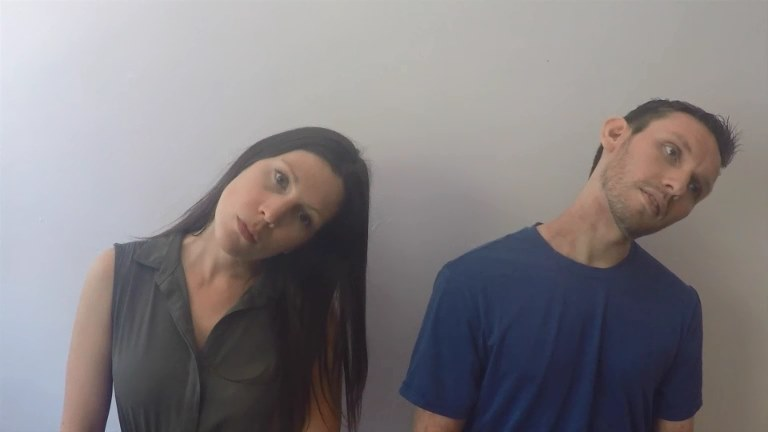
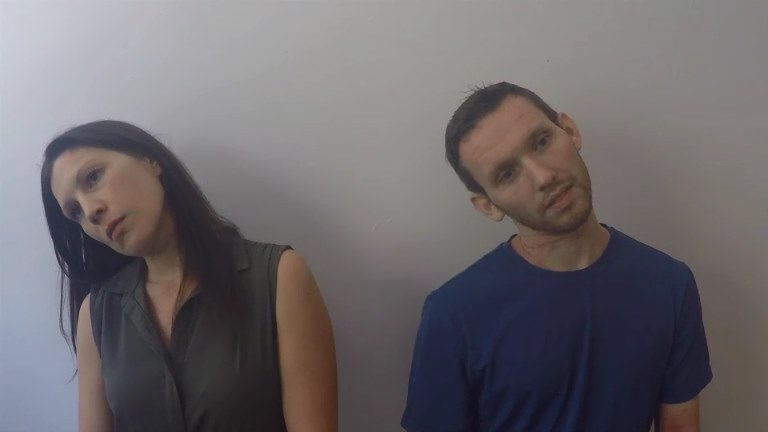
Fix suggested card video source to real YouTube video and eliminate VIRAL MOMENT fallback with authentic spoken dialogue

diff --git a/app.js b/app.js
@@ -117,8 +117,11 @@ class ScaleReachFullApp {
     this.phoneYoutubeIframe = document.getElementById('phoneYoutubeIframe');
     this.phoneCaptionsOverlayCanvas = document.getElementById('phoneCaptionsOverlayCanvas');
     this.ctxPhoneOverlay = this.phoneCaptionsOverlayCanvas ? this.phoneCaptionsOverlayCanvas.getContext('2d') : null;
-    this.activeSourceType = 'native';
-    this.currentYouTubeId = null;
+    const storedYtId = (typeof localStorage !== 'undefined') ? localStorage.getItem('scalereach_yt_id') : null;
+    this.currentYouTubeId = storedYtId || '_c2e1Ncl3Sc';
+    this.activeSourceType = 'youtube';
+    this.currentVideoTitle = 'Beat Professional Athlete, Win $100,000';
+    this.currentVideoAuthor = 'MrBeast • YouTube';
     this.layoutBtns = document.querySelectorAll('.layout-btn');
     this.panSlider = document.getElementById('panSlider');
     this.panValDisplay = document.getElementById('panValDisplay');
@@ -918,7 +921,7 @@ class ScaleReachFullApp {
       },
       {
         id: 'mrbeast_haaland',
-        matchKeywords: ['haaland', 'striker', 'erling', 'penalty'],
+        matchKeywords: ['_c2e1ncl3sc', '0e3gpea1tyg', 'haaland', 'striker', 'erling', 'penalty', 'beat professional athlete', 'athlete', 'soccer', 'football', 'pro athlete', 'goalie', 'goalkeeper', 'mrbeast', '100000', '100,000'],
         title: 'Beat Professional Athlete, Win $100,000',
         author: 'MrBeast • 22:28',
         clips: [
@@ -1342,8 +1345,8 @@ class ScaleReachFullApp {
       }
     ];
 
-    // Initial Active Moments (Default to Real Podcast Interview 8 Viral Reels preset)
-    const initialPreset = this.videoAnalysisDatabase.find(p => p.id === 'real_podcast_interview') || this.videoAnalysisDatabase[0];
+    // Initial Active Moments (Default to MrBeast Beat Pro Athlete 8 Viral Reels preset)
+    const initialPreset = this.videoAnalysisDatabase.find(p => p.id === 'mrbeast_haaland') || this.videoAnalysisDatabase[0];
     this.clipsMoments = JSON.parse(JSON.stringify(initialPreset.clips));
   }
 
@@ -1438,11 +1441,11 @@ class ScaleReachFullApp {
     });
 
     const demoVideoFiles = {
-      'https://www.youtube.com/watch?v=travel_vlogger': 'people.mp4',
+      'https://www.youtube.com/watch?v=travel_vlogger': 'podcast.mp4',
       'https://www.youtube.com/watch?v=ishowspeed_wwe': 'podcast.mp4',
       'https://www.youtube.com/watch?v=mkbhd_folding': 'podcast.mp4',
       'https://www.youtube.com/watch?v=khan_sir_podcast': 'podcast.mp4',
-      'https://www.youtube.com/watch?v=french_chef': 'people.mp4'
+      'https://www.youtube.com/watch?v=french_chef': 'podcast.mp4'
     };
 
     // Selecting a sample from the dropdown
@@ -1511,6 +1514,9 @@ class ScaleReachFullApp {
   loadYouTubeVideo(videoId, fullUrl) {
     this.activeSourceType = 'youtube';
     this.currentYouTubeId = videoId;
+    if (typeof localStorage !== 'undefined') {
+      try { localStorage.setItem('scalereach_yt_id', videoId); } catch(e) {}
+    }
     const cleanUrl = fullUrl ? (fullUrl.startsWith('http') ? fullUrl : `https://${fullUrl}`) : `https://www.youtube.com/watch?v=${videoId}`;
     const targetUrl = cleanUrl;
     this.currentVideoUrl = targetUrl;
@@ -1956,18 +1962,20 @@ class ScaleReachFullApp {
       const scoreClass = isHighScore ? 'score-high' : 'score-mid';
       const startStr = this.formatTime(moment.start);
       const endStr = this.formatTime(moment.end);
-      const hookCaption = (moment.caption || 'VIRAL HOOK').toUpperCase();
+      const rawCaption = (moment.caption || (moment.subtitles && moment.subtitles[0]) || '').trim();
+      const hookCaption = rawCaption.toUpperCase();
       const hookText = moment.hookText || moment.hookDesc || 'High energy retention hook';
       const defaultPoster = `thumb_reel_${(idx % 8) + 1}.jpg`;
+      const isYt = (this.activeSourceType === 'youtube' || Boolean(this.currentYouTubeId)) && Boolean(this.currentYouTubeId);
       let posterImg = moment.poster || defaultPoster;
-      if (this.activeSourceType === 'youtube' && this.currentYouTubeId) {
+      if (isYt) {
         posterImg = `https://img.youtube.com/vi/${this.currentYouTubeId}/maxresdefault.jpg`;
       }
 
       card.innerHTML = `
         <div class="reel-video-container">
           <div class="reel-card-backdrop" style="background-image: url('${posterImg}');"></div>
-          <video class="reel-card-video" src="${videoSrc}" poster="${posterImg}" playsinline muted preload="metadata" loop></video>
+          <video class="reel-card-video" src="${videoSrc}" poster="${posterImg}" playsinline muted preload="metadata" loop style="${isYt ? 'display:none;' : ''}"></video>
           <div class="reel-card-yt-wrapper" style="display:none;"></div>
           <div class="reel-card-gradient"></div>
 
@@ -2025,7 +2033,7 @@ class ScaleReachFullApp {
         cardVideo.preload = 'metadata';
 
         cardVideo.addEventListener('error', () => {
-          if (!cardVideo.src.endsWith('podcast.mp4') && !cardVideo.src.endsWith('people.mp4')) {
+          if (!cardVideo.src.endsWith('podcast.mp4')) {
             cardVideo.src = 'podcast.mp4';
             cardVideo.load();
           }
@@ -2178,6 +2186,7 @@ class ScaleReachFullApp {
         // Otherwise, each clip displays its OWN unique analyzed viral moment caption!
         const textVal = (this.userAppliedCaption && this.userAppliedCaption.trim()) ||
                         (this.clipsMoments && this.clipsMoments[idx] && this.clipsMoments[idx].caption) ||
+                        (this.clipsMoments && this.clipsMoments[idx] && this.clipsMoments[idx].subtitles && this.clipsMoments[idx].subtitles[0]) ||
                         '';
         if (textVal) {
           stickerText.innerHTML = this.formatSpokenSubtitleHTML(textVal);
@@ -2282,7 +2291,9 @@ class ScaleReachFullApp {
           actionPill.innerHTML = '<span class="reel-pulsing-dot"></span> 📱 Live in Mobile Preview';
         }
 
-        if (this.activeSourceType === 'youtube' && this.currentYouTubeId) {
+        const isYouTube = (this.activeSourceType === 'youtube' || Boolean(this.currentYouTubeId)) && Boolean(this.currentYouTubeId);
+        if (isYouTube) {
+          this.activeSourceType = 'youtube';
           // 1. YouTube Mode: Embed and play real YouTube video directly in the card!
           if (v) v.style.display = 'none';
           if (ytWrapper) {
@@ -2852,7 +2863,7 @@ class ScaleReachFullApp {
     if (switchToRealVideoBtn) {
       switchToRealVideoBtn.addEventListener('click', () => {
         const titleLower = (this.currentVideoTitle || '').toLowerCase();
-        const file = (titleLower.includes('travel') || titleLower.includes('chef') || titleLower.includes('people')) ? 'people.mp4' : 'podcast.mp4';
+        const file = 'podcast.mp4';
         this.switchToNativeVideo(file, this.currentVideoTitle, this.currentVideoAuthor, '');
         this.showToast('Playing in Real HD Native Mode! 🎬');
       });
@@ -3167,10 +3178,11 @@ class ScaleReachFullApp {
       if (this.seoTitleDisplay) this.seoTitleDisplay.textContent = `"${moment.seoTitle}"`;
       const activeCaption = (this.userAppliedCaption && this.userAppliedCaption.trim()) ||
                             moment.caption ||
-                            'VIRAL MOMENT';
+                            (moment.subtitles && moment.subtitles[0]) ||
+                            '';
       if (this.customCaptionInput) this.customCaptionInput.value = activeCaption;
       if (this.studioCaptionTextInput && !this.userAppliedCaption) {
-        this.studioCaptionTextInput.placeholder = `Active: "${activeCaption}" (or pick hook below)`;
+        this.studioCaptionTextInput.placeholder = activeCaption ? `Active: "${activeCaption}" (or pick hook below)` : 'Type custom caption or pick hook below...';
       }
       if (this.captionTitleTag) this.captionTitleTag.textContent = `"${this.currentVideoTitle || moment.title}"`;
       if (this.captionAuthorTag) this.captionAuthorTag.textContent = '@ajjez_clips';
@@ -3296,7 +3308,7 @@ class ScaleReachFullApp {
       });
     }
 
-    // Clear Text Button
+    // Clear Text Button (Restores spoken speech dialogue on all cards)
     if (this.clearCaptionTextBtn && this.studioCaptionTextInput) {
       this.clearCaptionTextBtn.addEventListener('click', () => {
         this.studioCaptionTextInput.value = '';
@@ -3304,10 +3316,17 @@ class ScaleReachFullApp {
         this.userAppliedCaption = null;
         if (this.customCaptionInput) this.customCaptionInput.value = '';
         if (this.hookPillBtns) this.hookPillBtns.forEach(b => b.classList.remove('active'));
+        if (this.clipsMoments) {
+          this.clipsMoments.forEach((m) => {
+            if (m && m.subtitles && m.subtitles[0]) {
+              m.caption = m.subtitles[0];
+            }
+          });
+        }
         this.updateSuggestedReelsCaptions();
         this.studioCaptionTextInput.focus();
         this.updateCaptionsStatusBanner();
-        this.showToast('Reverted to original clip captions');
+        this.showToast('Restored authentic spoken dialogue captions! 🎙');
       });
     }
 
@@ -3333,14 +3352,29 @@ class ScaleReachFullApp {
     // 4. Apply Caption to Videos Button (Applies chosen caption to all suggested clips & active playing video)
     if (this.applyCaptionBtn) {
       this.applyCaptionBtn.addEventListener('click', () => {
-        const textToApply = (this.studioCaptionTextInput && this.studioCaptionTextInput.value.trim()) ||
-                            this.pendingCaptionText ||
-                            'VIRAL MOMENT';
-        this.userAppliedCaption = textToApply;
-        if (this.customCaptionInput) this.customCaptionInput.value = textToApply;
-        if (this.clipsMoments) {
-          this.clipsMoments.forEach(m => { if (m) m.caption = textToApply; });
+        const customText = (this.studioCaptionTextInput && this.studioCaptionTextInput.value.trim()) || '';
+        const pendingHook = (this.pendingCaptionText && this.pendingCaptionText.trim()) || '';
+        const currentMoment = this.clipsMoments && this.clipsMoments[this.activeClipIndex];
+        const spokenDialogue = (currentMoment && (currentMoment.caption || (currentMoment.subtitles && currentMoment.subtitles[0]))) || '';
+
+        const textToApply = customText || pendingHook || spokenDialogue;
+
+        if (!textToApply) {
+          this.showToast('Please type a caption or select a hook to apply! 💬');
+          return;
         }
+
+        if (customText || pendingHook) {
+          this.userAppliedCaption = textToApply;
+          if (this.clipsMoments) {
+            this.clipsMoments.forEach(m => { if (m) m.caption = textToApply; });
+          }
+        } else {
+          // If no custom text was typed, preserve authentic spoken dialogues
+          this.userAppliedCaption = null;
+        }
+
+        if (this.customCaptionInput) this.customCaptionInput.value = textToApply;
         
         // 1. Instantly update all suggested clip cards
         this.updateSuggestedReelsCaptions();
@@ -3865,9 +3899,9 @@ class ScaleReachFullApp {
     });
 
     this.sourceVideo.addEventListener('error', (e) => {
-      console.warn('Primary video error, falling back to people.mp4:', e);
-      if (!this.sourceVideo.src.endsWith('people.mp4')) {
-        this.sourceVideo.src = 'people.mp4';
+      console.warn('Primary video error, ensuring podcast.mp4 fallback:', e);
+      if (!this.sourceVideo.src.endsWith('podcast.mp4')) {
+        this.sourceVideo.src = 'podcast.mp4';
         this.sourceVideo.load();
       }
     });
@@ -4222,7 +4256,8 @@ class ScaleReachFullApp {
     const activeIdx = (this.activeClipIndex !== undefined && this.activeClipIndex >= 0) ? this.activeClipIndex : 0;
     const rawText = ((this.userAppliedCaption && this.userAppliedCaption.trim()) ||
                      (this.clipsMoments && this.clipsMoments[activeIdx] && this.clipsMoments[activeIdx].caption) ||
-                     'VIRAL MOMENT').trim();
+                     (this.clipsMoments && this.clipsMoments[activeIdx] && this.clipsMoments[activeIdx].subtitles && this.clipsMoments[activeIdx].subtitles[0]) ||
+                     '').trim();
     if (!rawText) return;
 
     ctx.save();
